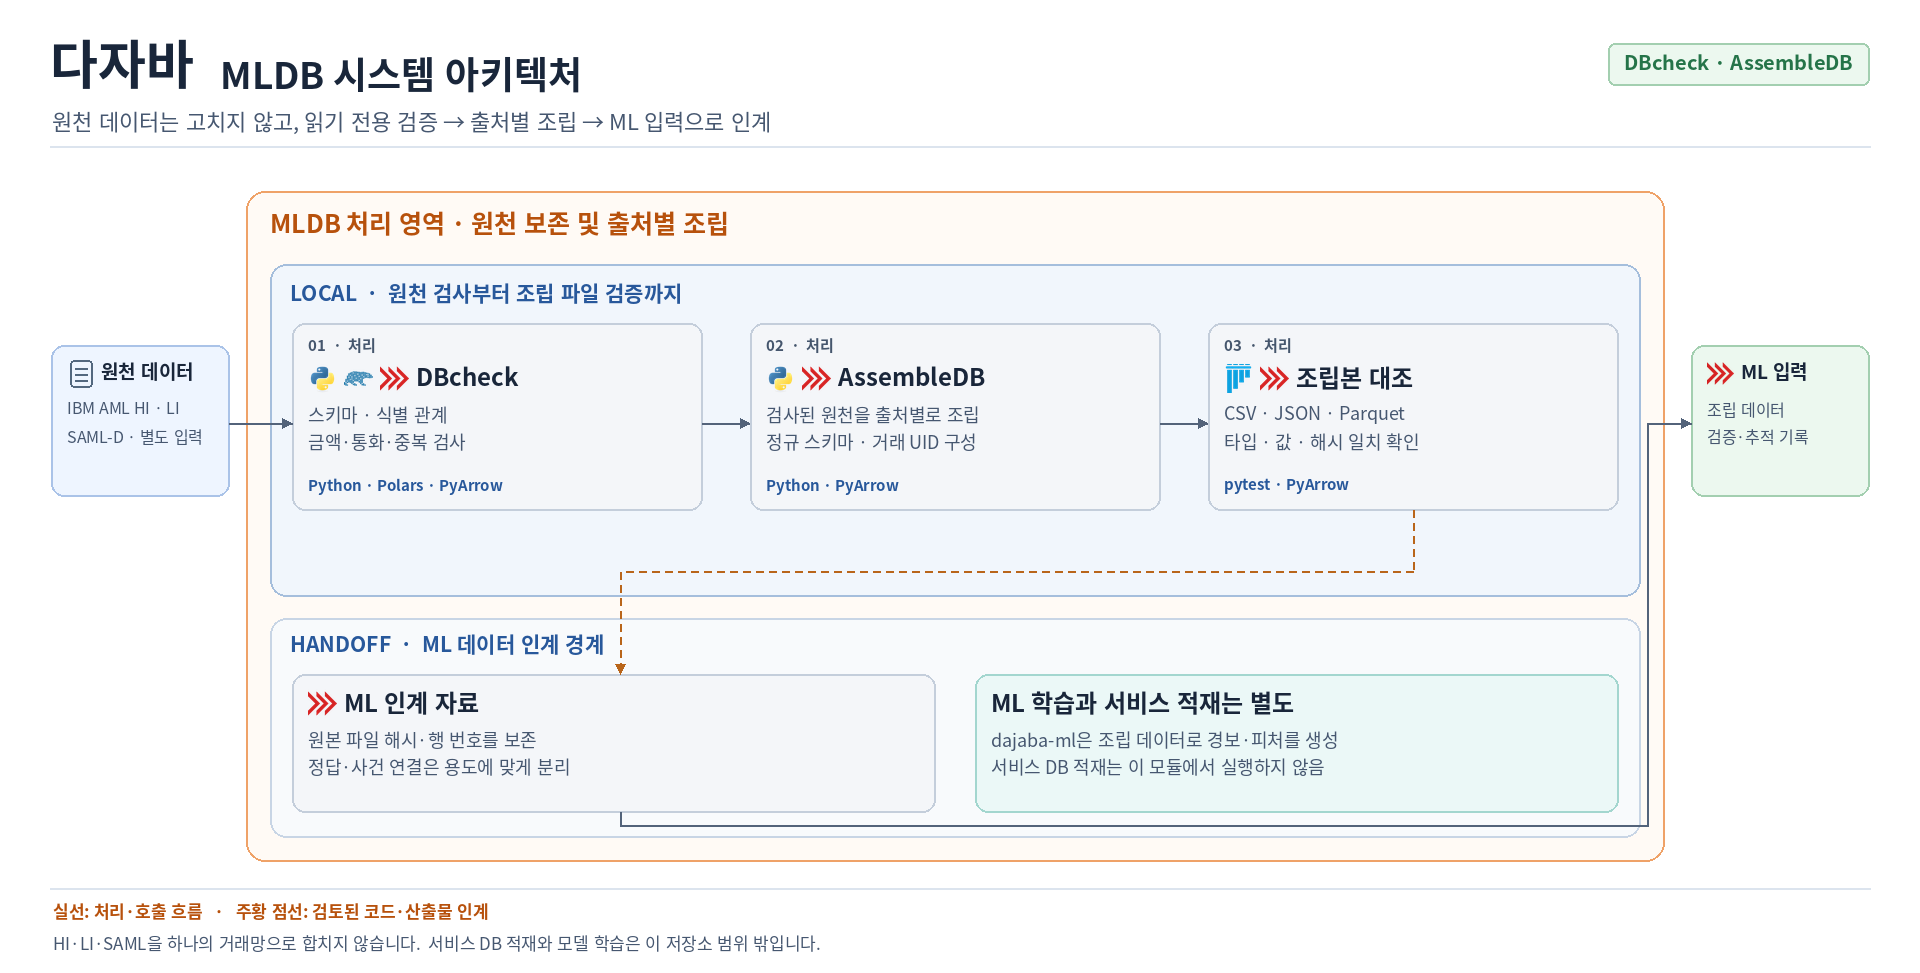
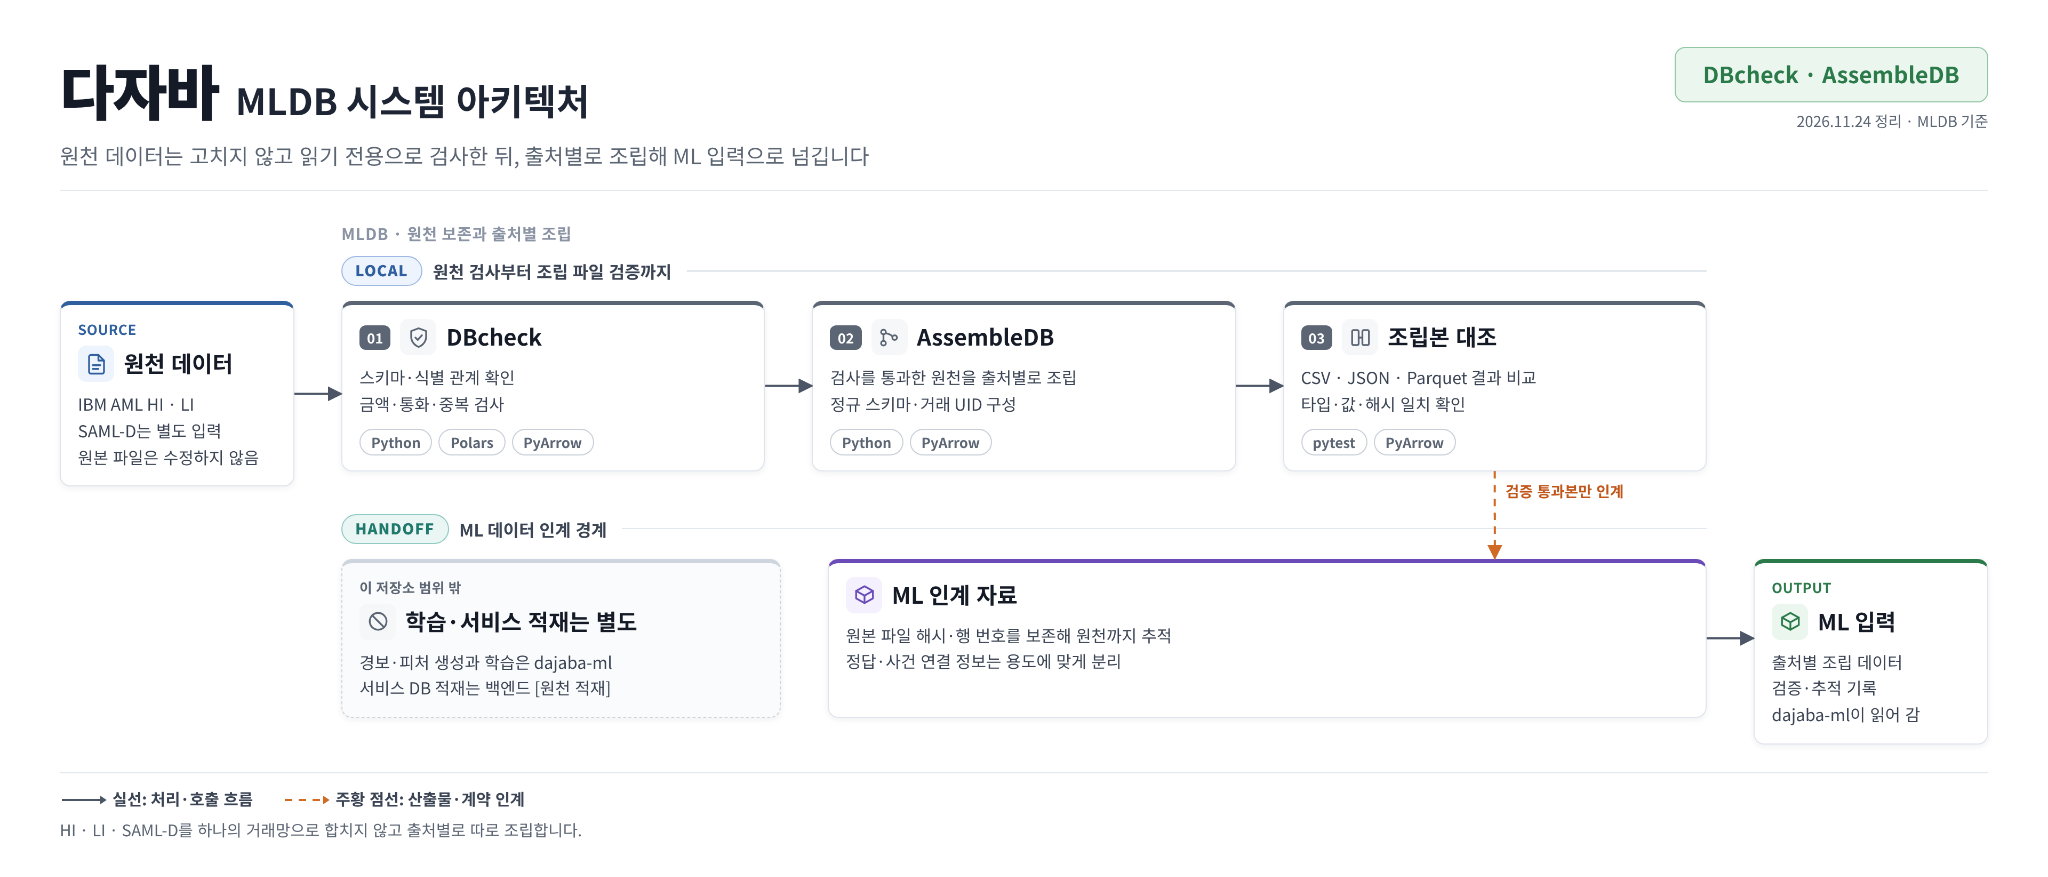
docs: SCRUM-384 MLDB 원천 검증·인계 아키텍처 갱신

diff --git a/README.md b/README.md
@@ -2,11 +2,11 @@
 
 **원천 데이터를 검증하고, ML이 읽을 수 있는 출처별 데이터로 조립합니다.**
 
-DBcheck와 AssembleDB의 출처별 검사 및 조립 파일 계약을 설명합니다. 서비스 DB 적재는 별도 단계입니다.
+DBcheck와 AssembleDB의 출처별 검사 및 조립 파일 계약을 설명합니다. 서비스 DB의 원천 적재는 백엔드가 담당합니다.
 
 ## 이 저장소가 하는 일
 
-- DBcheck: HI-Small·LI-Small·SAML-D의 스키마, 금액, 식별 관계, 중복과 원천 품질을 읽기 전용으로 검사합니다.
+- DBcheck: IBM AML HI·LI와 SAML-D의 스키마, 금액, 식별 관계, 중복을 출처별로 읽기 전용 검사합니다. 공개 설정 예제는 HI-Small·LI-Small·SAML-D를 사용합니다.
 - AssembleDB: 검사된 원천을 출처별로 조립하고 CSV·JSON·Parquet 출력의 내용과 계약을 검증합니다.
 - 원본 파일 해시와 행 번호를 보존해 후속 ML 결과를 원천까지 추적합니다.
 - 모델 학습과 실제 서비스 DB 적재는 수행하지 않습니다.
@@ -29,7 +29,7 @@ flowchart LR
   class ML,REPORT output
 ```
 
-서비스 후보 파일은 운영 DB가 아닙니다. 현재 서비스·STR 시연은 백엔드의 HI-Small 전체 적재 DB에서 경보를 만들고 필요한 근거를 추출하는 방향을 협의 중입니다. 무작위 10,000행은 전체 이력이나 룰 탐지 재현을 보장하지 않습니다.
+서비스·STR 시연은 백엔드가 HI-Small 원천 파일을 서비스 DB에 적재한 뒤 경보를 만들고 근거 거래를 조회합니다. 무작위 10,000행은 전체 이력이나 룰 탐지 재현을 보장하지 않습니다.
 
 ## 폴더별 역할
 
@@ -57,18 +57,20 @@ flowchart LR
 
 새 가상환경에 두 패키지를 함께 설치하고 작업용 설정 사본을 구성합니다. [설치 및 데이터 인계](docs/final-data-handoff.md)를 참고합니다.
 
-## CI/CD 구조
+## 시스템 아키텍처
 
-![다자바 MLDB의 원천 검증과 조립 데이터 인계 및 GitHub 검사](docs/images/mldb-architecture-ci.png)
+![DBcheck로 원천을 검사하고 AssembleDB로 출처별 조립본을 검증해 ML에 인계하는 흐름](docs/images/mldb-architecture-ci.png)
+
+### CI/CD 구조
 
 원격 `ml-sync-check`는 PR 규약과 동기화 도구를 검사하고, `ml-sync-manual`은 수동 WBS/Jira 동기화를 담당한다. 원천 검사와 파일 조립·검증은 [로컬 데이터 인계 절차](docs/final-data-handoff.md)를 따른다.
 
 <!-- cicd-pipeline-image: mldb-cicd-pipeline -->
 [이전 CI/CD 그림](docs/images/mldb-cicd-pipeline.png)
 
-[확대 가능한 SVG 원본](docs/images/mldb-cicd-pipeline.svg)
+[이전 CI/CD 그림의 SVG 원본](docs/images/mldb-cicd-pipeline.svg)
 
-실제 기술·라이브러리 로고로 구성한 그림입니다. 파란 실선은 현재 로컬에서 확인한 정의·구현, 초록 점선은 CI/CD 제안, 주황 점선은 사용자 실행·별도 승인 또는 후속 검증 단계입니다. 워크플로 정의와 실제 실행 성공은 구분하며, 미확정 배포 기술은 로고로 단정하지 않습니다. 아래 Mermaid와 기존 설명은 편집 가능한 요약으로 보존합니다.
+이전 CI/CD 그림의 파란 실선은 현재 로컬에서 확인한 정의·구현, 초록 점선은 CI/CD 제안, 주황 점선은 사용자 실행·별도 승인 또는 후속 검증 단계입니다. 워크플로 정의와 실제 실행 성공은 구분하며, 미확정 배포 기술은 로고로 단정하지 않습니다. 아래 Mermaid와 기존 설명은 편집 가능한 요약으로 보존합니다.
 <!-- /cicd-pipeline-image -->
 
 ```mermaid
